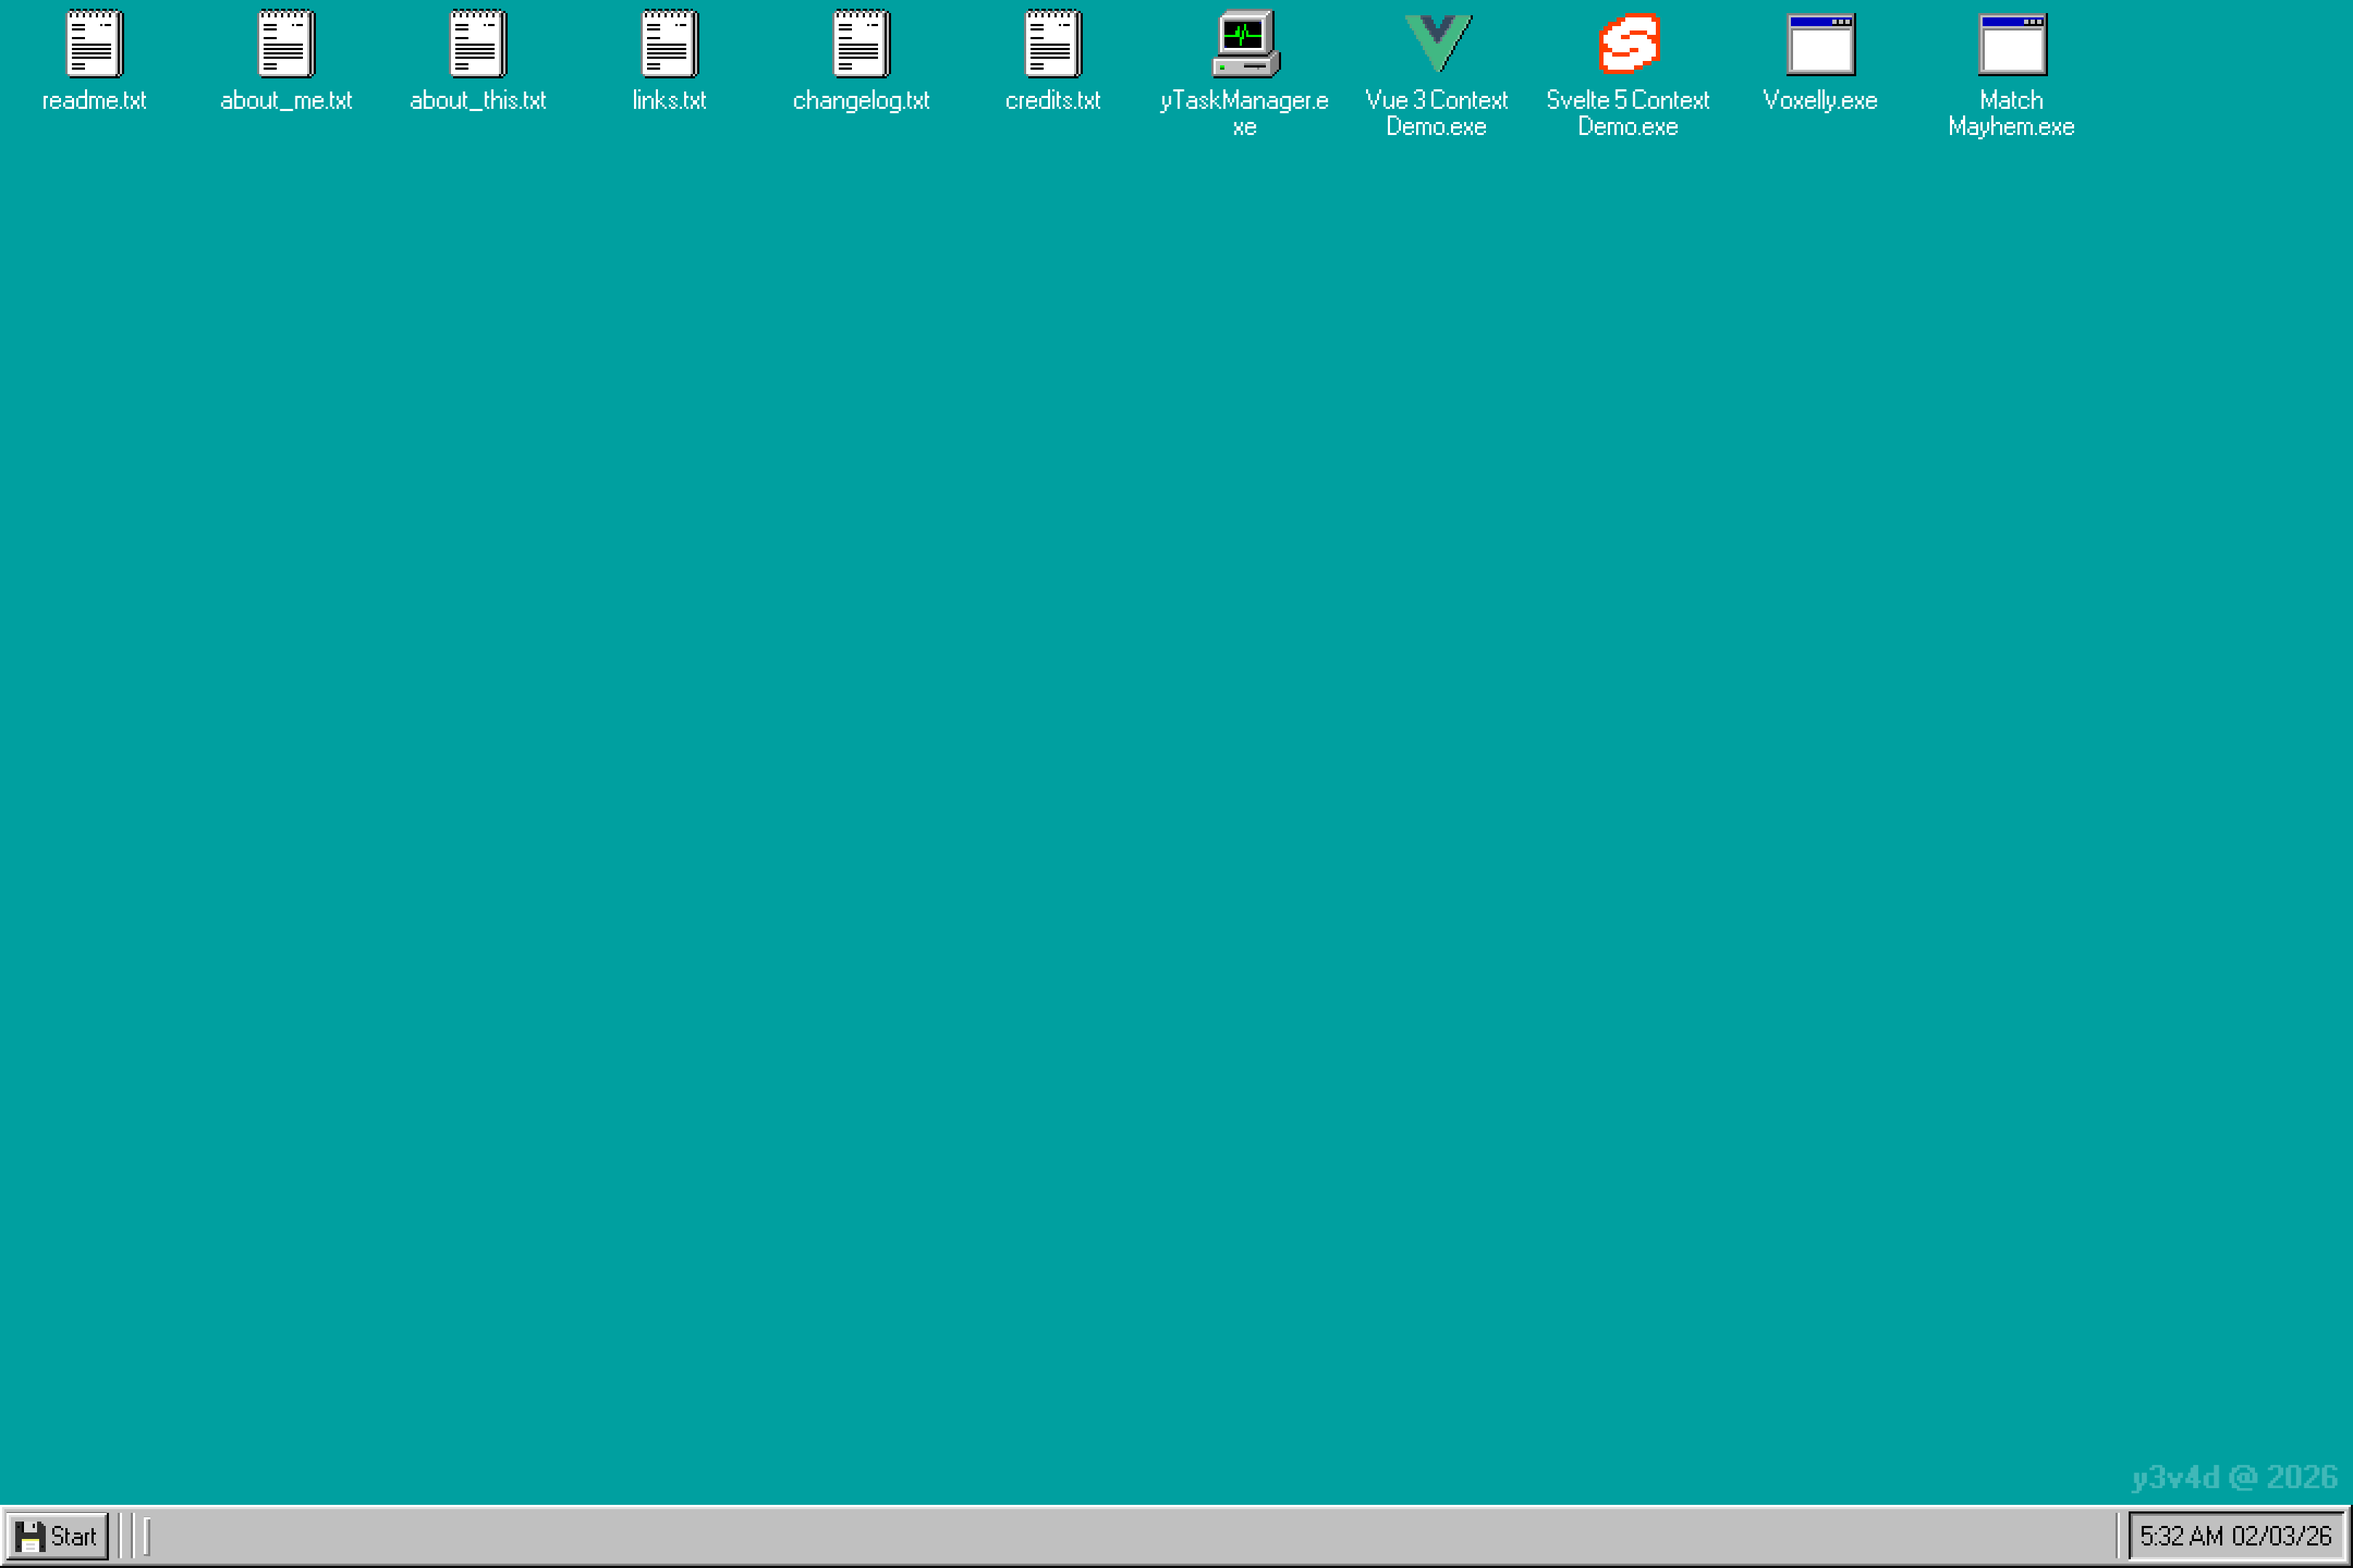
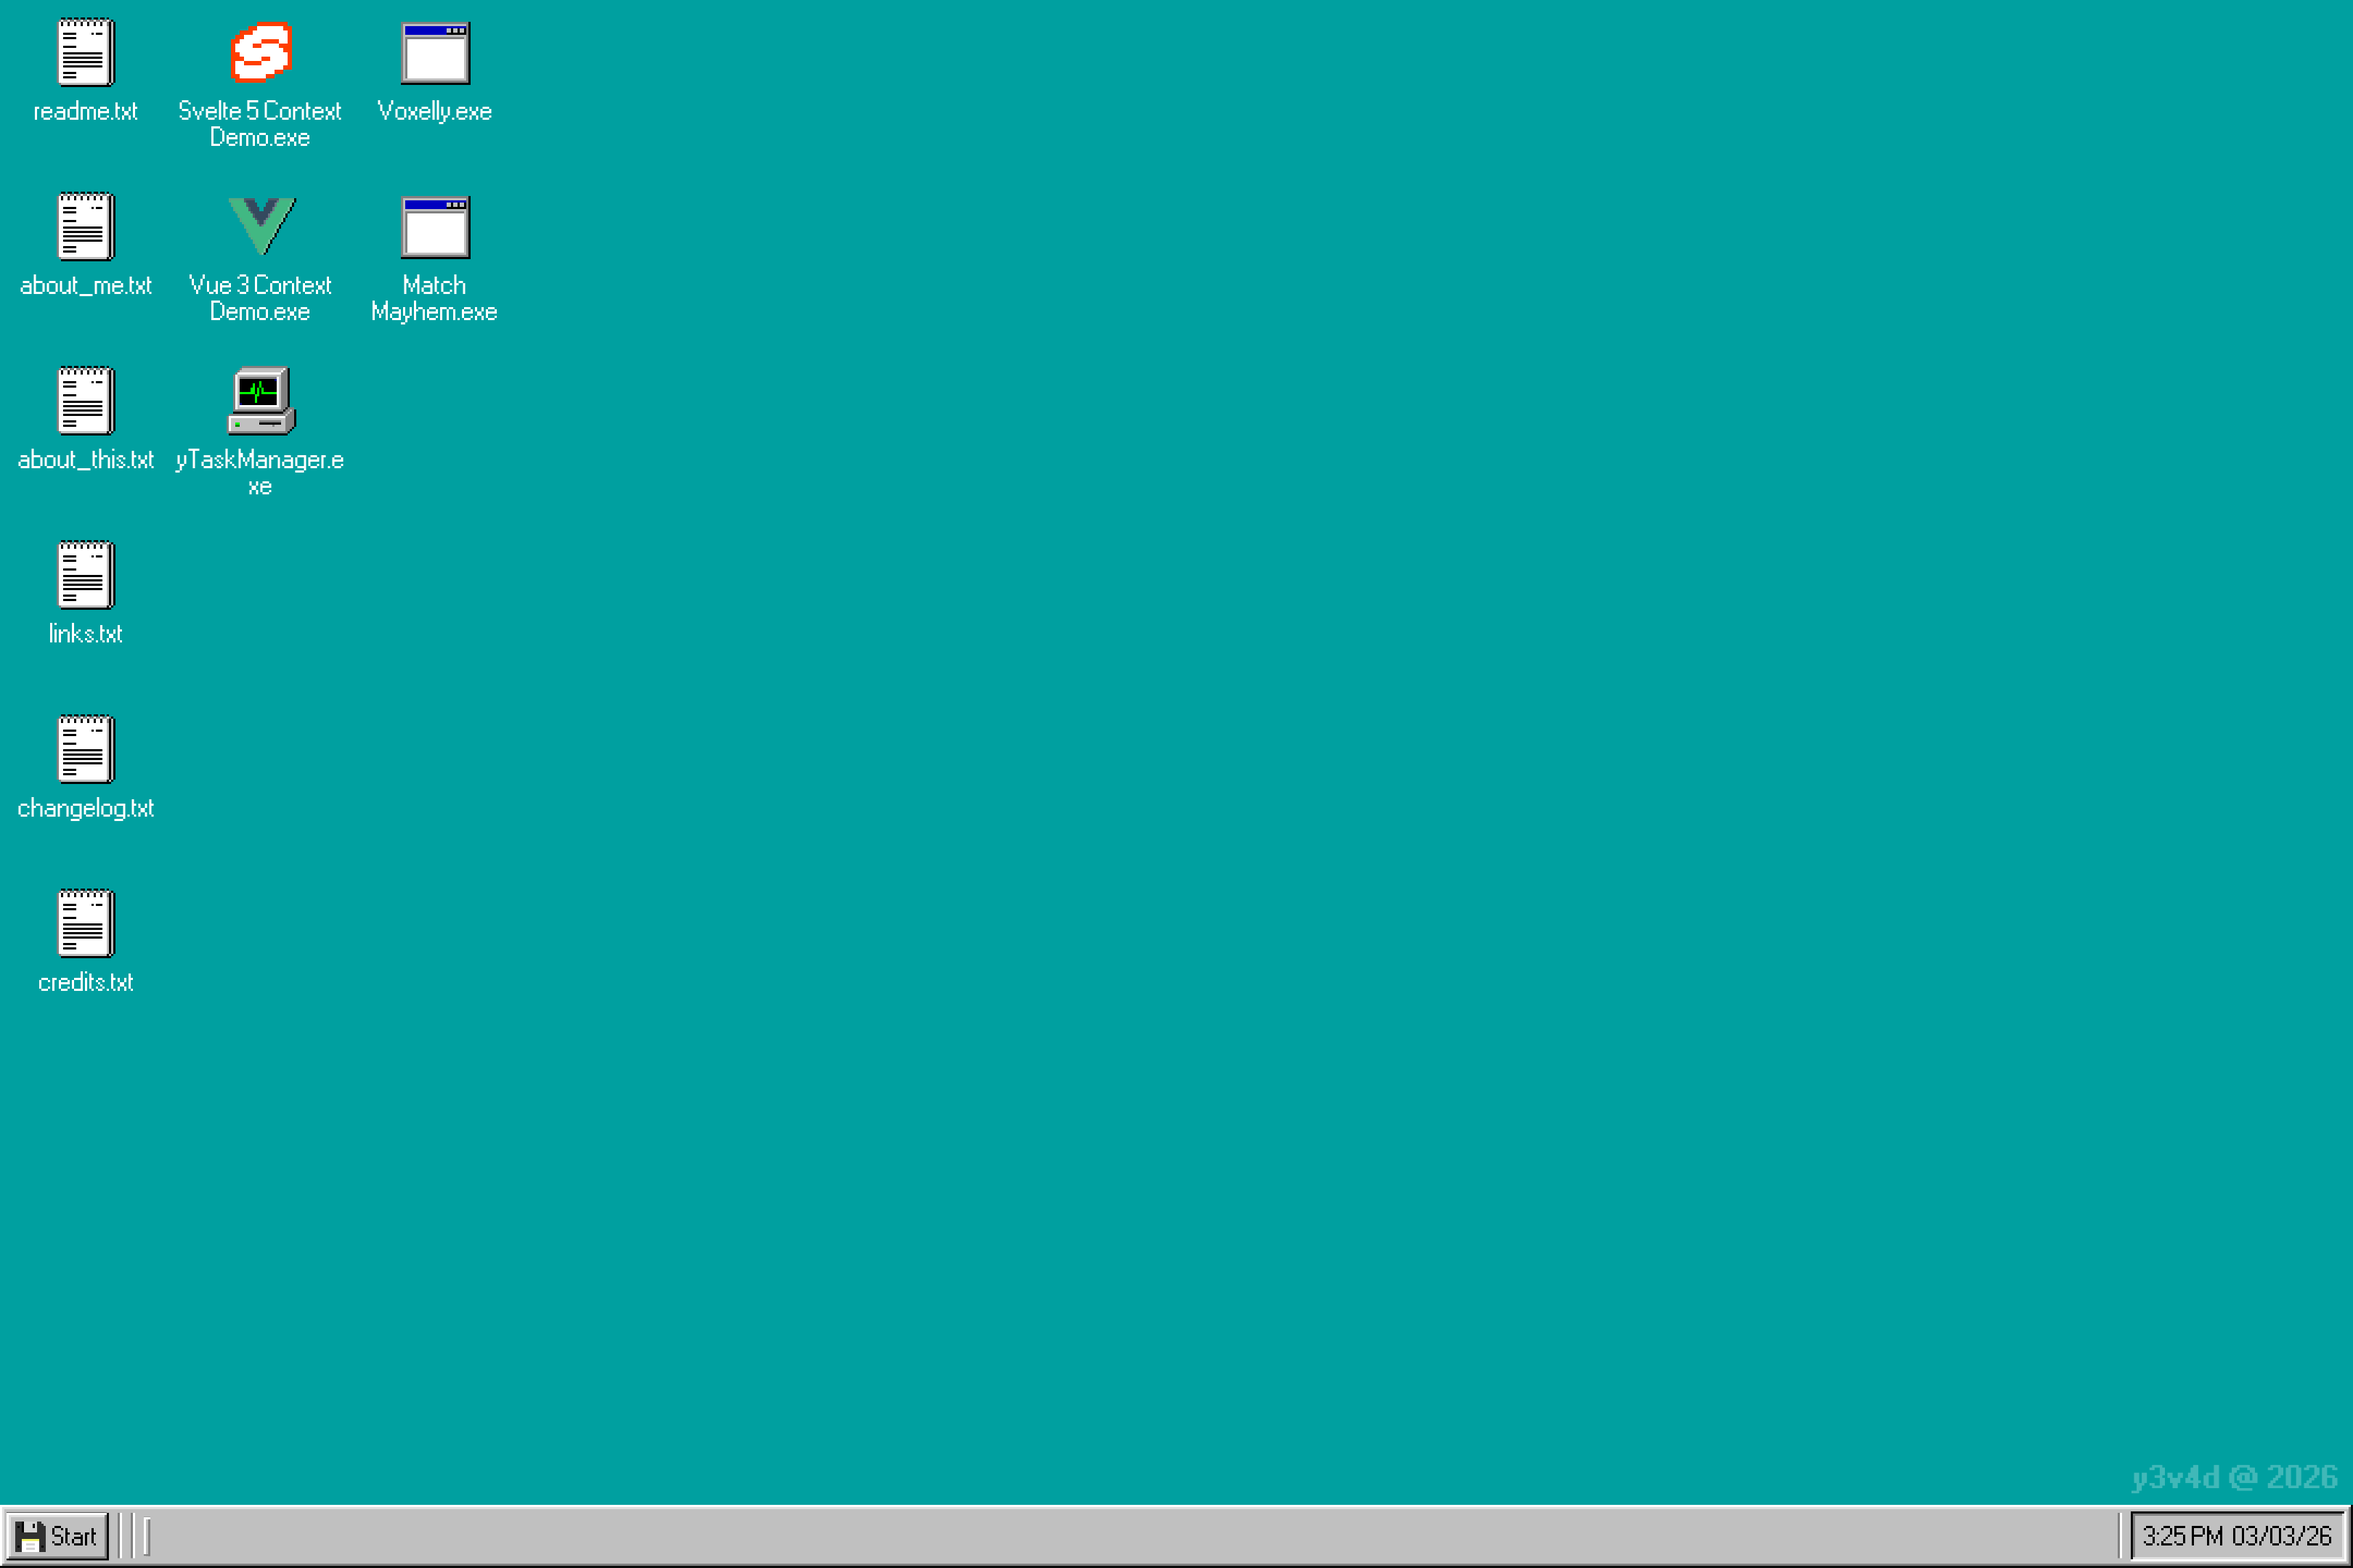
- bumped version to 0.3.1 - updated empty desktop screenshot in the README

diff --git a/src/init_files.ts b/src/init_files.ts
@@ -1,6 +1,6 @@
 import { BinaryWriter, type Kernel } from "./yos";
 
-const readmeContent = `yOS - Web Operating System v0.3.0
+const readmeContent = `yOS - Web Operating System v0.3.1
 --------------------------------------------------
 
 Welcome to yOS, an experimental operating system-like environment built using TypeScript.
@@ -93,6 +93,21 @@ This project is a work in progress and is constantly evolving as I learn and exp
 
 const changelogContent = `CHANGELOG
 ------------------
+
+Version 0.3.1 - 03/03/2026
+
+- Added proper desktop grid system for desktop icons with automatic positioning and collision avoidance.
+- Added ability to move desktop icons by dragging them around.
+- Added blue overlay over selected desktop icon.
+- X11 attachContext function now doesn't create context (again), instead context is created after first mapping of the window.
+  This prevents any potential issues with immediate Svelte lifecycle callbacks and effects firing before the DOM is rendered,
+  which causes hard to track errors when it comes to DOM size and position measurements.
+- Task Manager applications are now always filtered to only include NORMAL type windows.
+- Taskbar tabs are now always filtered to only include NORMAL type windows.
+- Added End Task/Process functionality to Task Manager application.
+- X11 closeDisplay function now properly removes the connection from any window subscriber lists.
+- Dragged windows are now automatically unmaximized.
+- Added /dist to .gitignore to avoid committing build artifacts.
 
 Version 0.3.0 - 02/03/2026
 
